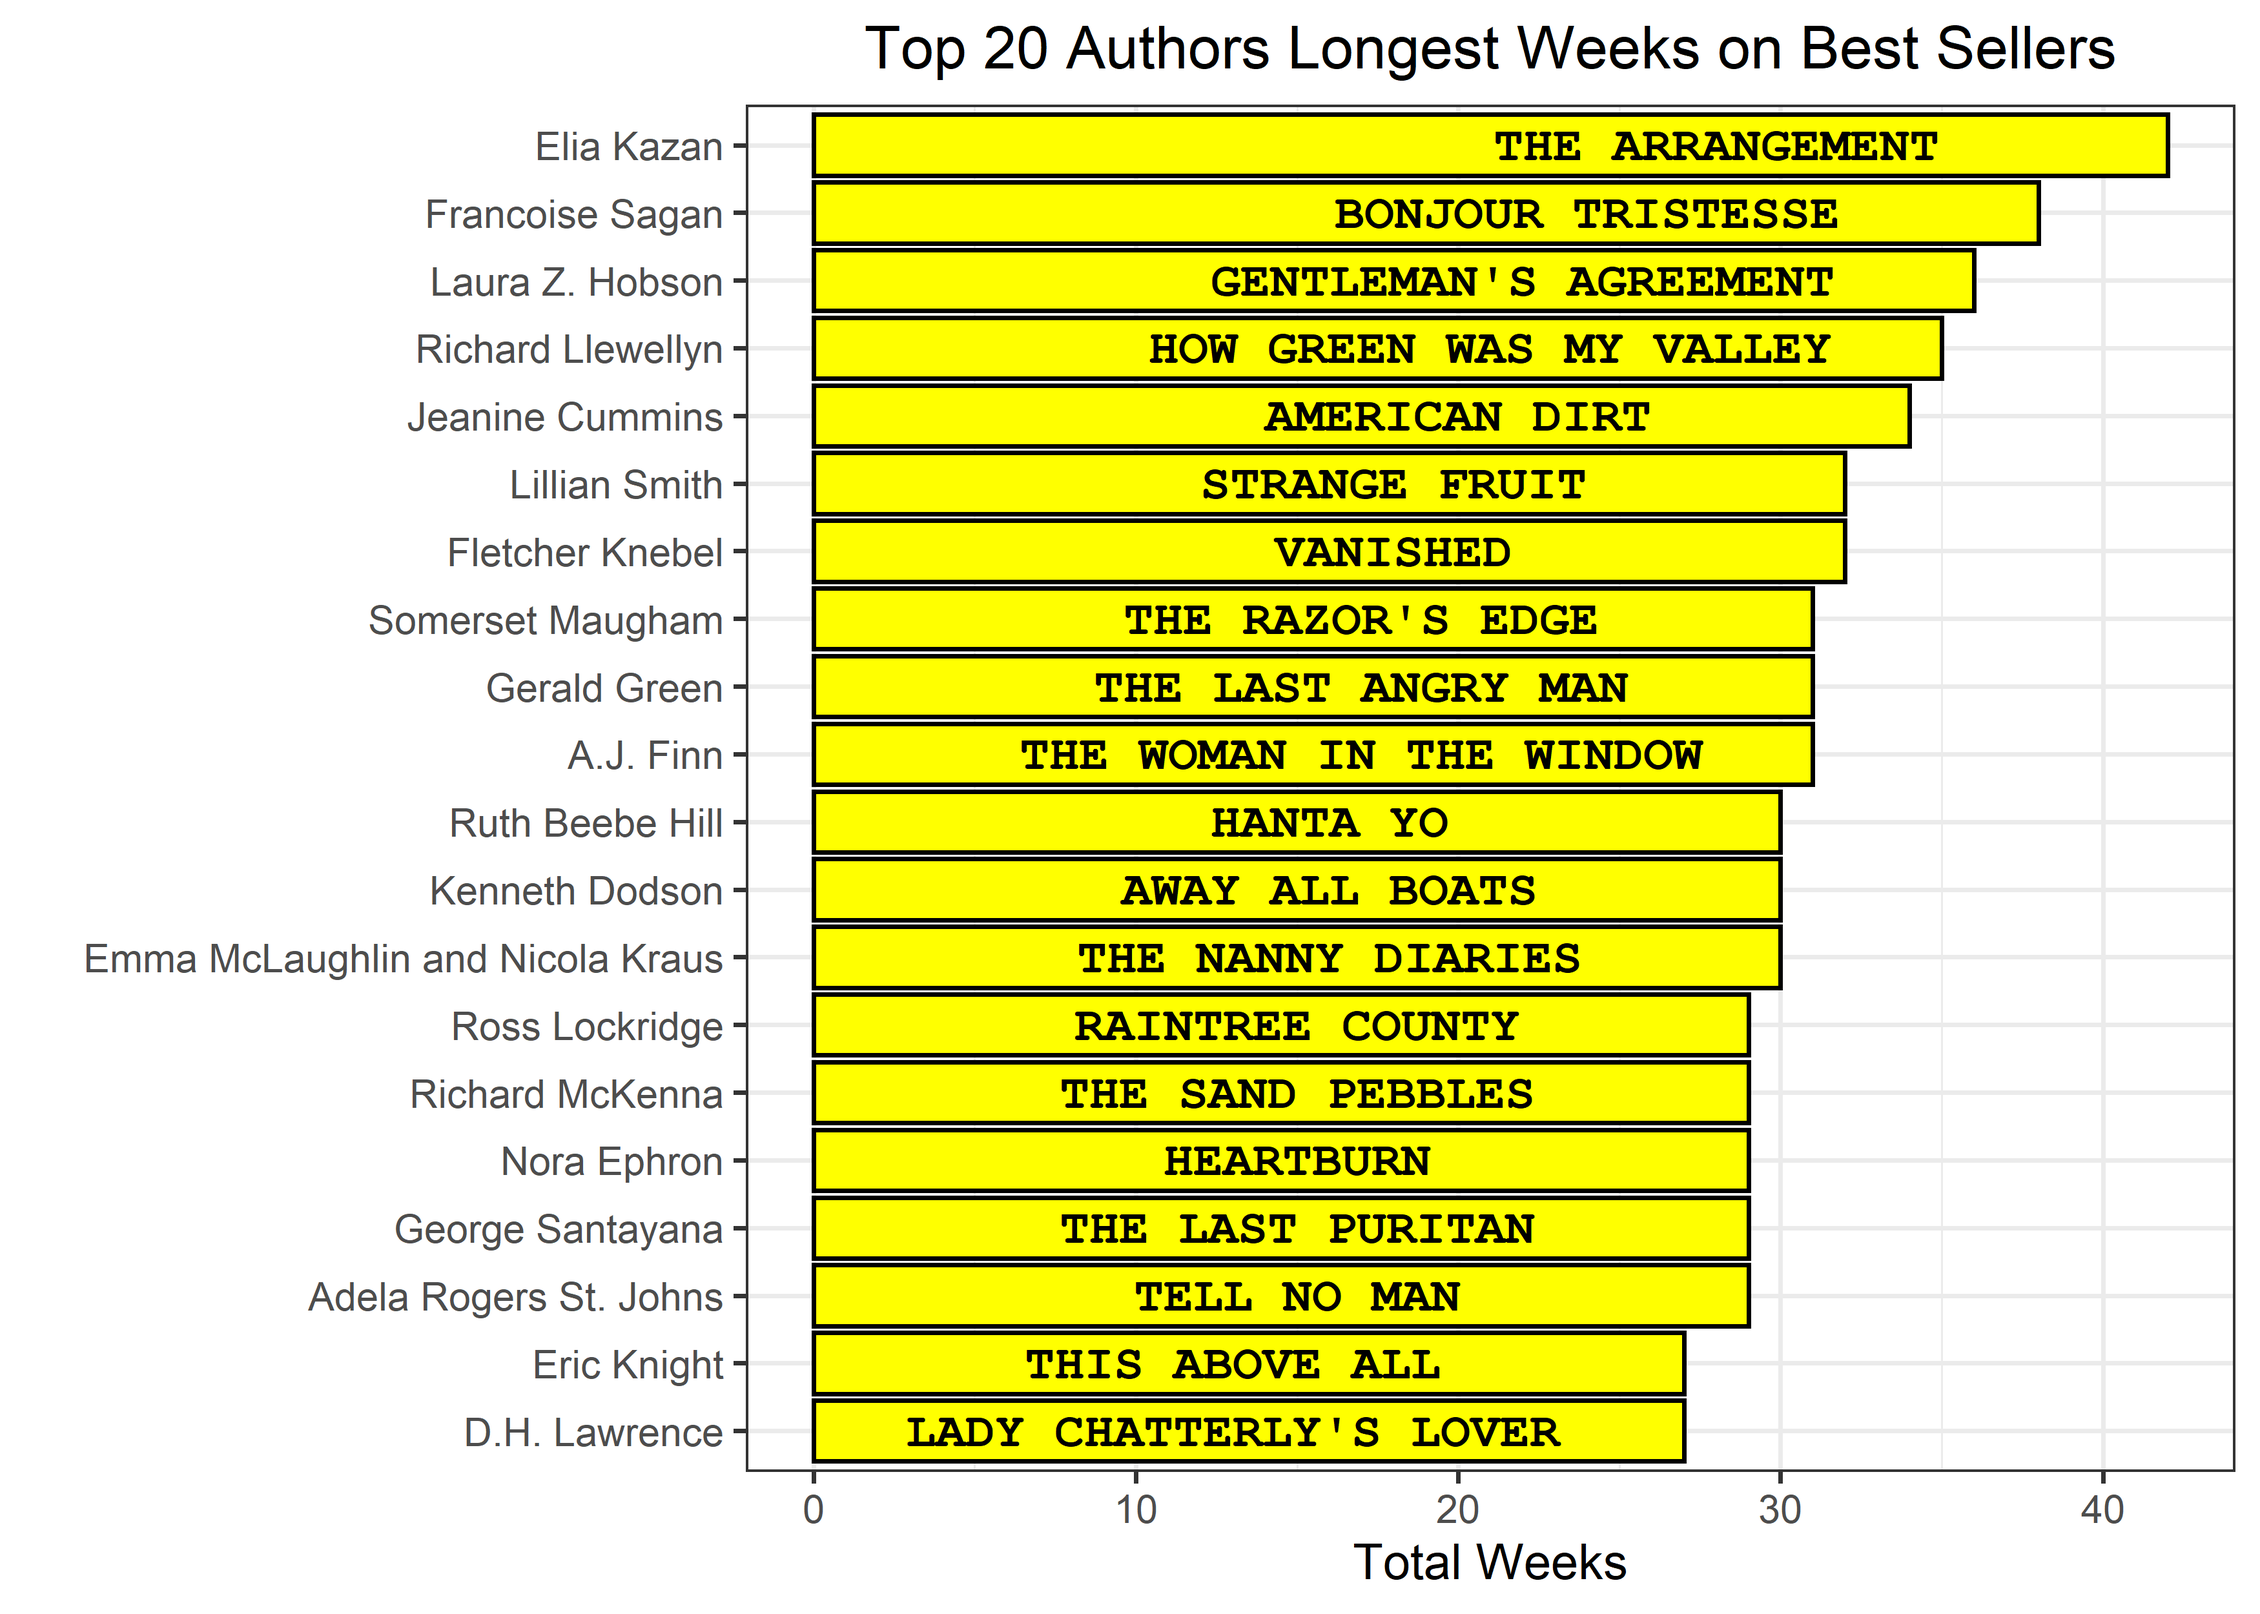
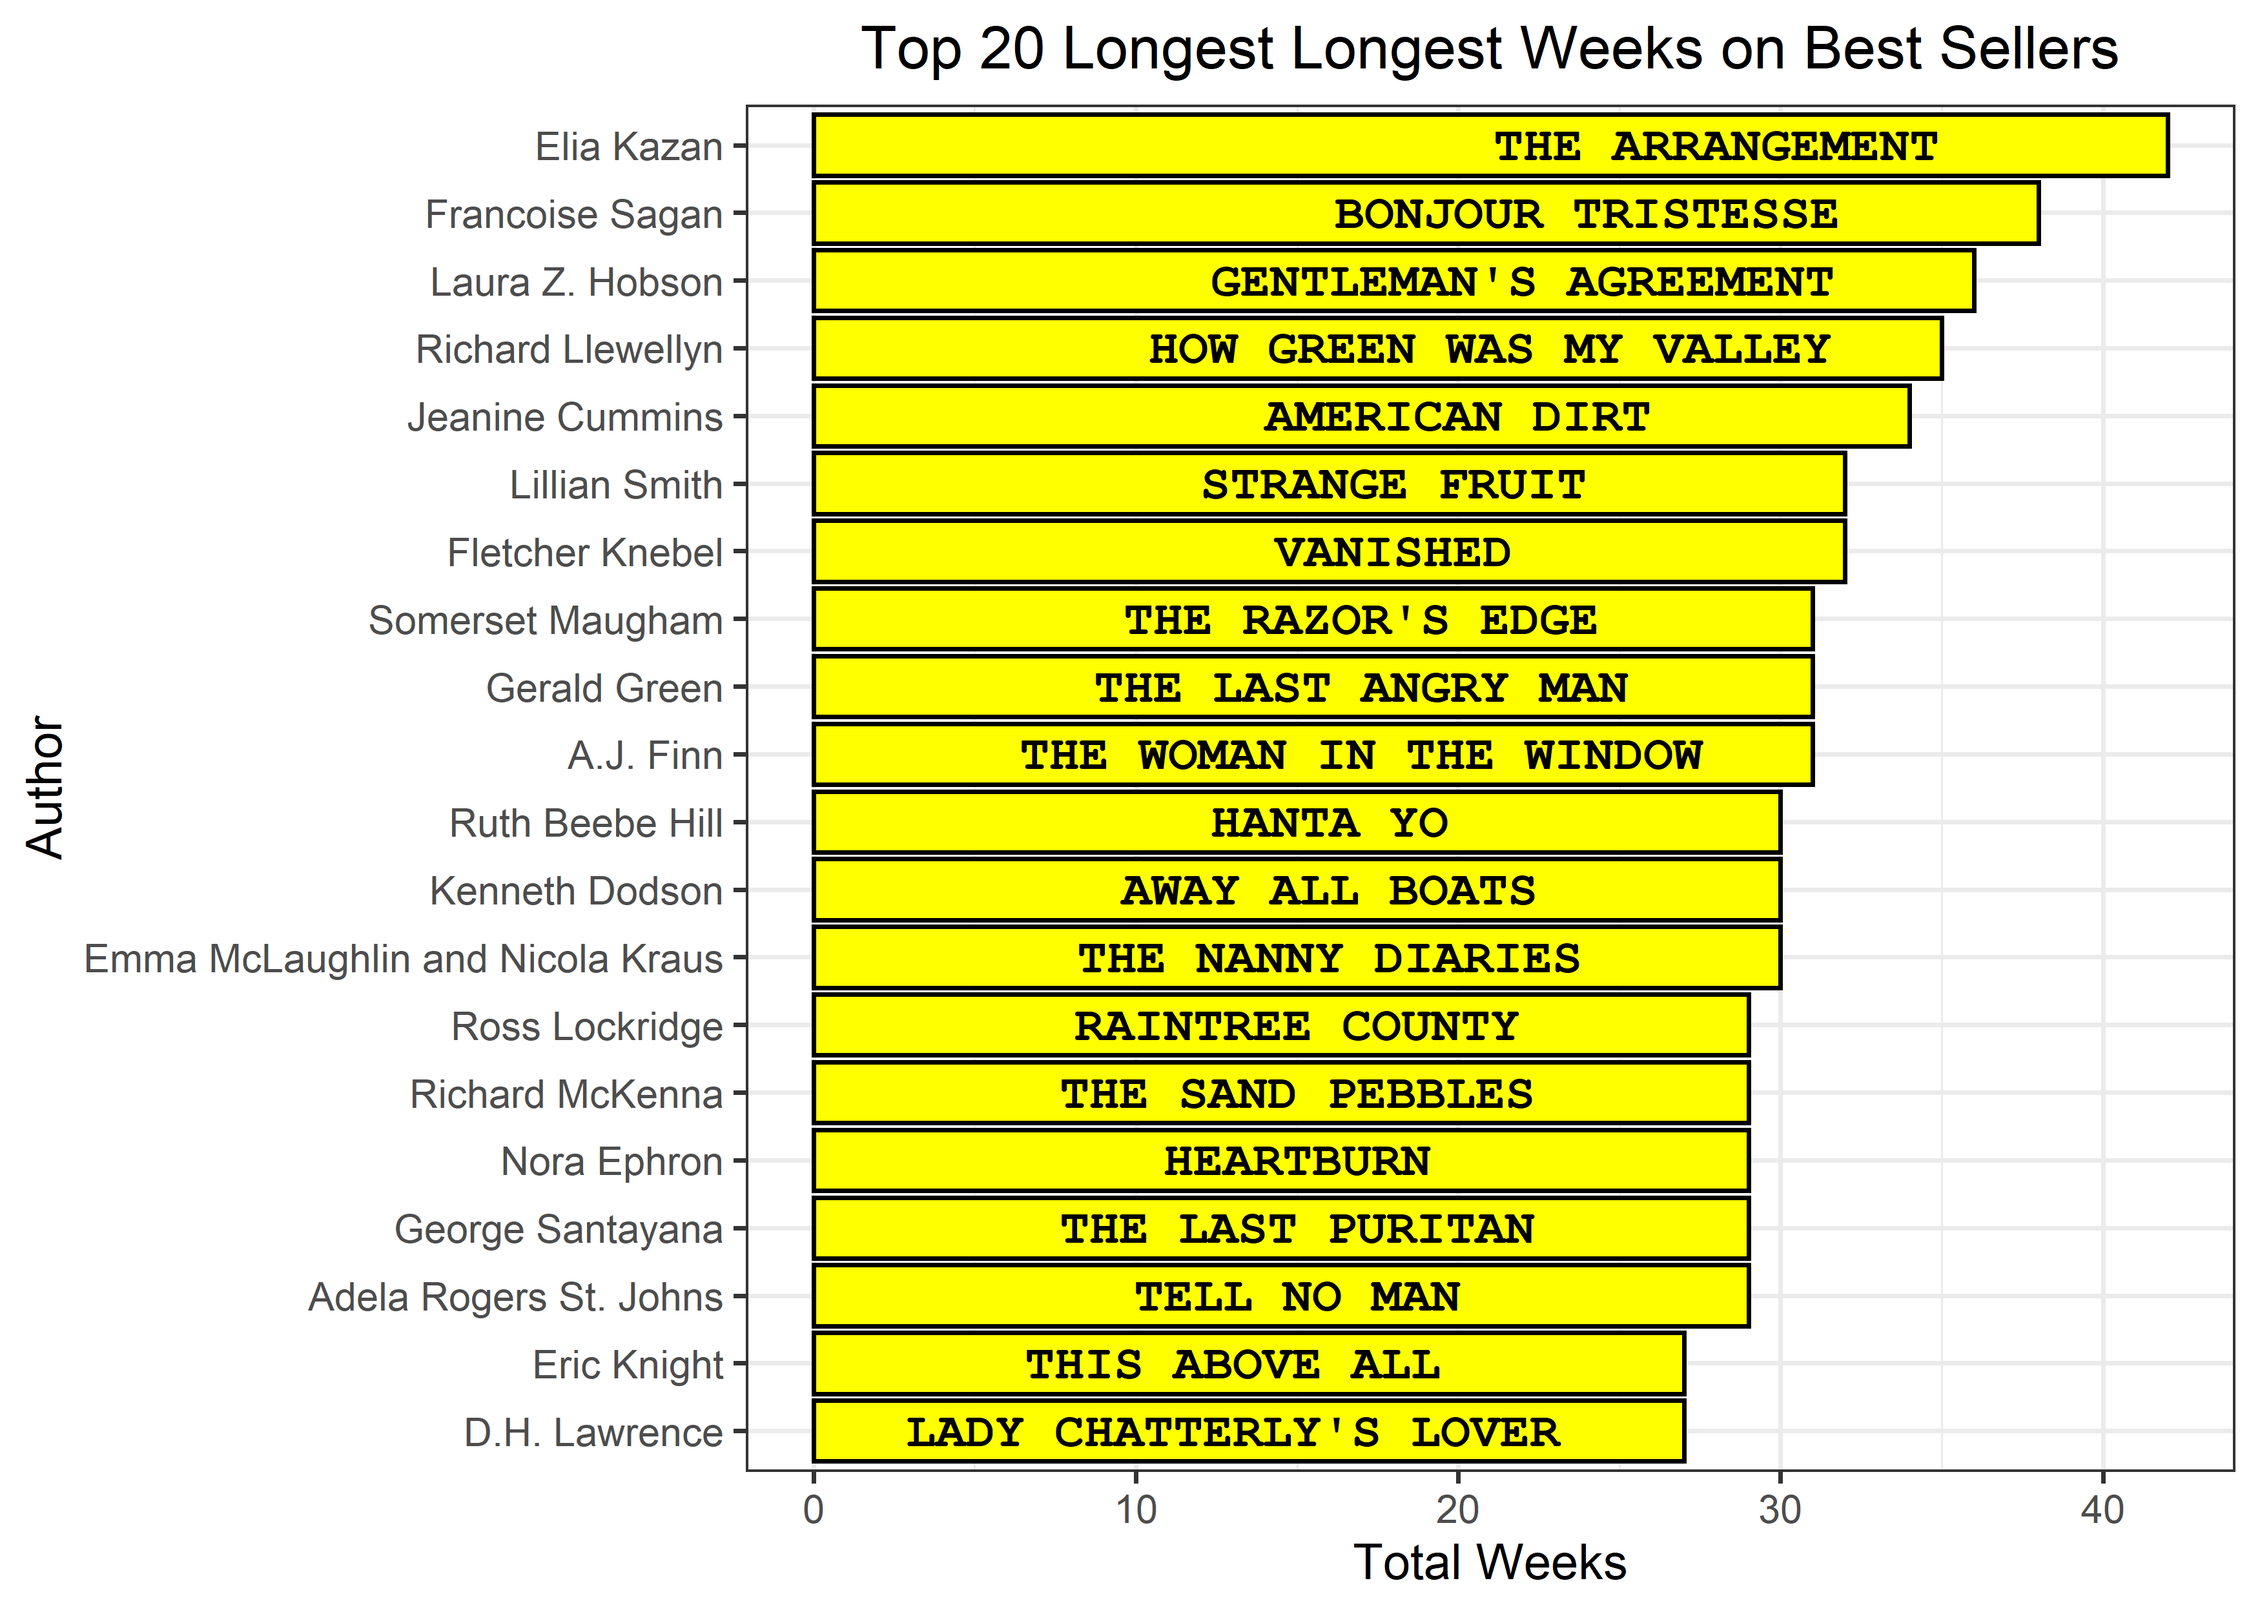
Title change from Rstudio Cloud

diff --git a/05-10-22/NYT-Best-Sellers.md b/05-10-22/NYT-Best-Sellers.md
@@ -215,7 +215,7 @@ nyt %>%
   ggplot(aes(total_weeks, fct_reorder(author, total_weeks), label = title)) + 
   geom_col(fill = "yellow", color = "black") + 
   geom_text(aes(family = "mono", fontface = "bold"), nudge_x = -14) +
-  labs(y = "", x = "Total Weeks", title = "Top 20 Authors Longest Weeks on Best Sellers") +
+  labs(y = "Author", x = "Total Weeks", title = "Top 20 Longest Longest Weeks on Best Sellers") +
   theme(legend.position = "none", plot.title = element_text(hjust = 0.5))
 ```
 
